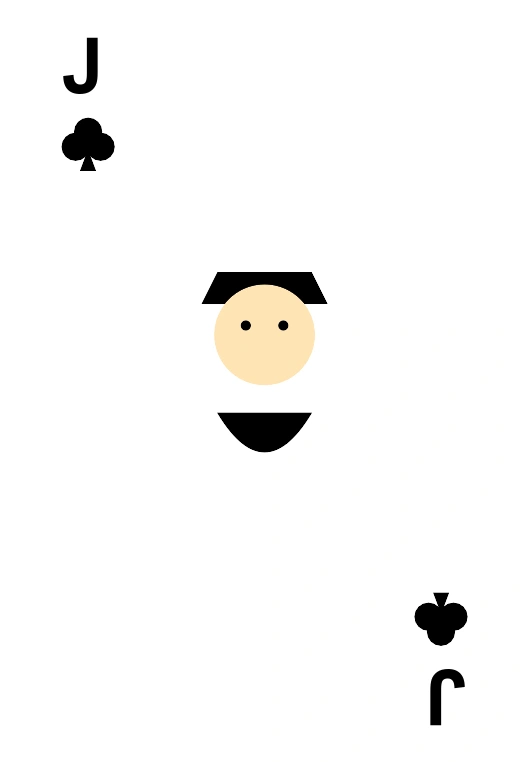
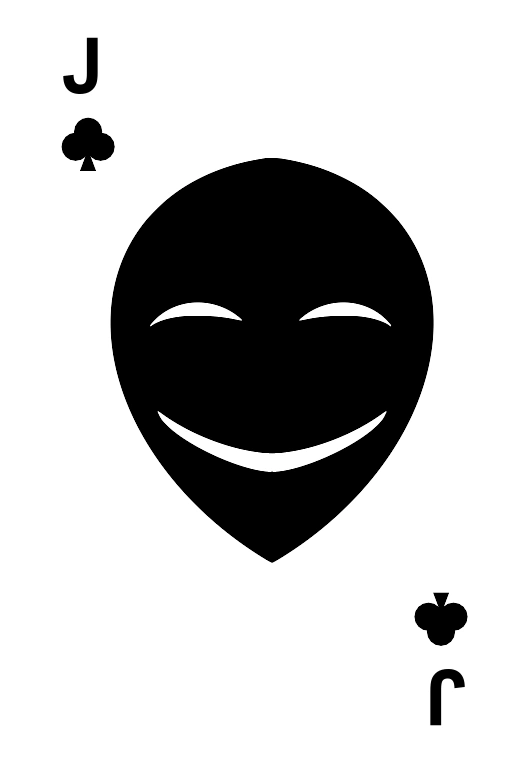
fix: J 이미지 적용

Changed region(s): [[0.2121, 0.1811, 0.8182, 0.7546]]

diff --git a/public/cards/CardTemplate.js b/public/cards/CardTemplate.js
@@ -182,22 +182,53 @@ const getFaceImage = (rank, isOneEyed, isRed) => {
       `;
     case 'J':
       return `
-        <!-- 모자 -->
-        <path d="M-15 -35 L15 -35 L20 -25 L-20 -25 Z" fill="#000000"/>
-        <!-- 얼굴 -->
-        <circle cx="0" cy="-15" r="16" fill="${faceColor}"/>
-        <!-- 눈 -->
-        ${isOneEyed ? 
-          `<circle cx="6" cy="-18" r="1.5" fill="#000000"/>` :
-          `<circle cx="-6" cy="-18" r="1.5" fill="#000000"/>
-           <circle cx="6" cy="-18" r="1.5" fill="#000000"/>`
-        }
-        <!-- 코 -->
-        <path d="M0 -15 Q1 -12 0 -10" stroke="#000000" fill="none"/>
-        <!-- 입 -->
-        <path d="M-4 -5 Q0 -3 4 -5" stroke="#000000" fill="none"/>
-        <!-- 옷깃 -->
-        <path d="M-15 10 Q0 35 15 10" fill="#000000"/>
+        <g transform="translate(-100, 75) scale(0.01, 0.01)">
+          ${isOneEyed ? 
+            `<!-- j_1.svg (한 눈) -->
+            <g transform="translate(0, 2048) scale(1, -1)" fill="${color}" stroke="none">
+              <path d="M10260 16269 c0 -769 -10 -5562 -15 -7303 -4 -1347 -7 -1691 -17
+              -1698 -33 -22 -536 39 -848 103 -924 190 -1955 642 -2666 1170 -95 69 -136 84
+              -148 53 -4 -9 0 -26 7 -38 7 -12 21 -41 31 -66 10 -25 42 -81 71 -125 319
+              -481 1413 -1137 2493 -1494 390 -129 795 -217 1004 -216 l68 0 0 -1447 c0
+              -1374 1 -1447 18 -1441 62 23 620 379 872 556 782 549 1526 1222 2131 1927
+              1755 2045 2490 4467 1978 6512 -184 736 -508 1376 -993 1963 -129 156 -467
+              494 -626 625 -648 536 -1384 912 -2260 1155 -326 90 -787 179 -992 191 l-108
+              7 0 -434z m2445 -4179 c491 -45 935 -260 1254 -606 90 -98 117 -140 101 -159
+              -18 -22 -38 -18 -74 13 -87 76 -334 176 -561 227 -307 69 -559 89 -999 82
+              -419 -7 -750 -42 -1114 -119 -186 -39 -206 -40 -210 -11 -2 16 15 37 74 87
+              417 356 983 536 1529 486z m1199 -3486 c14 -14 14 -19 3 -42 -8 -15 -29 -58
+              -47 -97 -47 -102 -110 -186 -230 -305 -669 -669 -2288 -1418 -3244 -1500 -87
+              -8 -122 -7 -132 1 -11 9 -14 69 -14 308 l0 296 93 3 c201 6 589 62 877 127
+              887 201 1804 608 2510 1113 112 81 145 103 167 111 1 1 9 -6 17 -15z"/>
+              <path d="M7668 12089 c-379 -33 -771 -194 -1058 -434 -103 -87 -290 -283 -290
+              -306 0 -40 48 -54 72 -21 7 10 45 37 83 60 191 113 505 199 890 244 177 21
+              858 18 1065 -5 234 -26 482 -63 650 -99 184 -39 204 -40 208 -11 2 16 -15 37
+              -74 87 -421 359 -983 536 -1546 485z"/>
+            </g>` : 
+            `<!-- j_2.svg (두 눈) -->
+            <g transform="translate(0, 2048) scale(1, -1)" fill="${color}" stroke="none">
+              <path d="M10045 16694 c-97 -11 -415 -68 -582 -105 -881 -193 -1699 -555
+              -2348 -1038 -221 -165 -372 -296 -581 -505 -206 -206 -336 -355 -481 -553
+              -768 -1042 -1090 -2338 -932 -3748 290 -2582 2168 -5206 4924 -6875 96 -58
+              181 -103 195 -103 14 0 99 45 195 103 2756 1669 4634 4293 4924 6875 158 1410
+              -164 2706 -932 3748 -145 198 -275 347 -481 553 -417 417 -838 721 -1376 993
+              -591 300 -1202 498 -1915 621 -151 27 -211 32 -375 35 -107 2 -213 1 -235 -1z
+              m-1995 -4605 c430 -39 843 -211 1164 -485 59 -50 76 -71 74 -87 -4 -29 -24
+              -28 -210 11 -364 77 -695 112 -1114 119 -440 7 -692 -13 -999 -82 -227 -51
+              -474 -151 -561 -227 -36 -31 -56 -35 -74 -13 -16 19 11 61 101 159 402 437
+              1004 662 1619 605z m4655 1 c491 -45 935 -260 1254 -606 90 -98 117 -140 101
+              -159 -18 -22 -38 -18 -74 13 -87 76 -334 176 -561 227 -307 69 -559 89 -999
+              82 -419 -7 -750 -42 -1114 -119 -186 -39 -206 -40 -210 -11 -2 16 15 37 74 87
+              417 356 983 536 1529 486z m-5952 -3577 c798 -574 1874 -1021 2852 -1183 509
+              -84 761 -84 1270 0 978 162 2054 609 2852 1183 71 51 137 96 146 100 9 3 23
+              -1 32 -9 13 -13 13 -19 2 -42 -8 -15 -29 -58 -47 -97 -47 -102 -110 -186 -230
+              -305 -669 -669 -2288 -1418 -3244 -1500 -87 -8 -122 -7 -132 1 -11 9 -17 9
+              -28 0 -10 -8 -45 -9 -132 -1 -956 82 -2575 831 -3244 1500 -120 119 -183 203
+              -230 305 -18 39 -39 82 -47 97 -11 23 -11 29 2 42 9 8 23 12 32 9 9 -4 75 -49
+              146 -100z"/>
+            </g>`
+          }
+        </g>
       `;
     default:
       return '';
